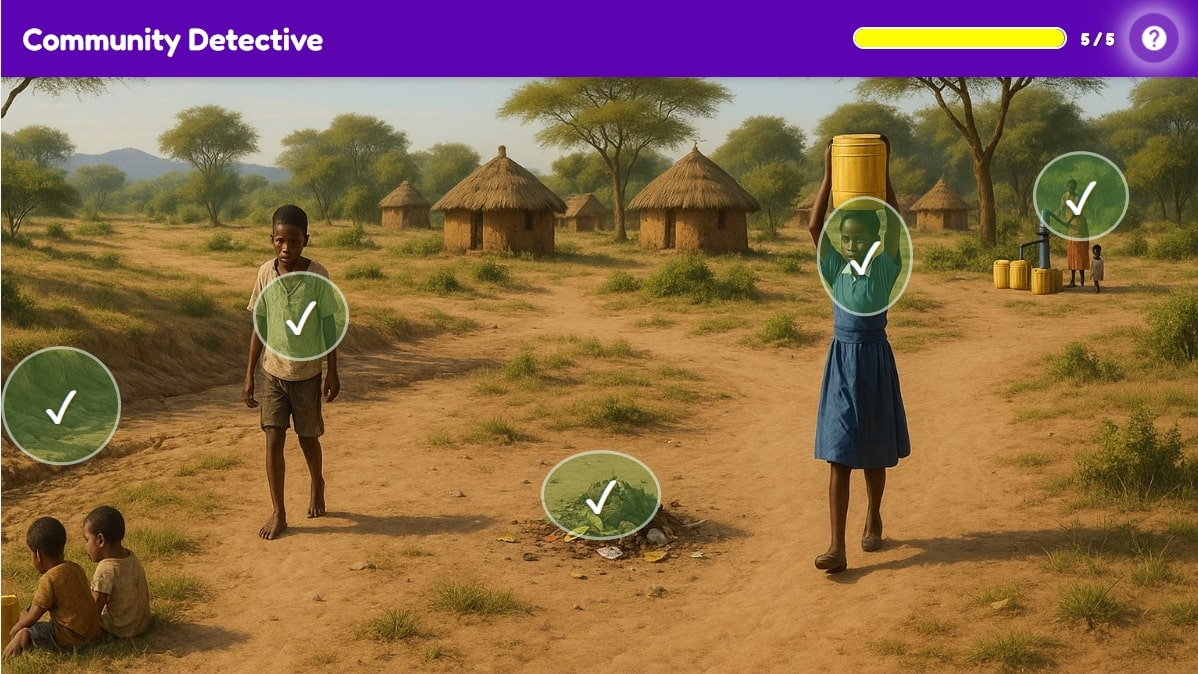
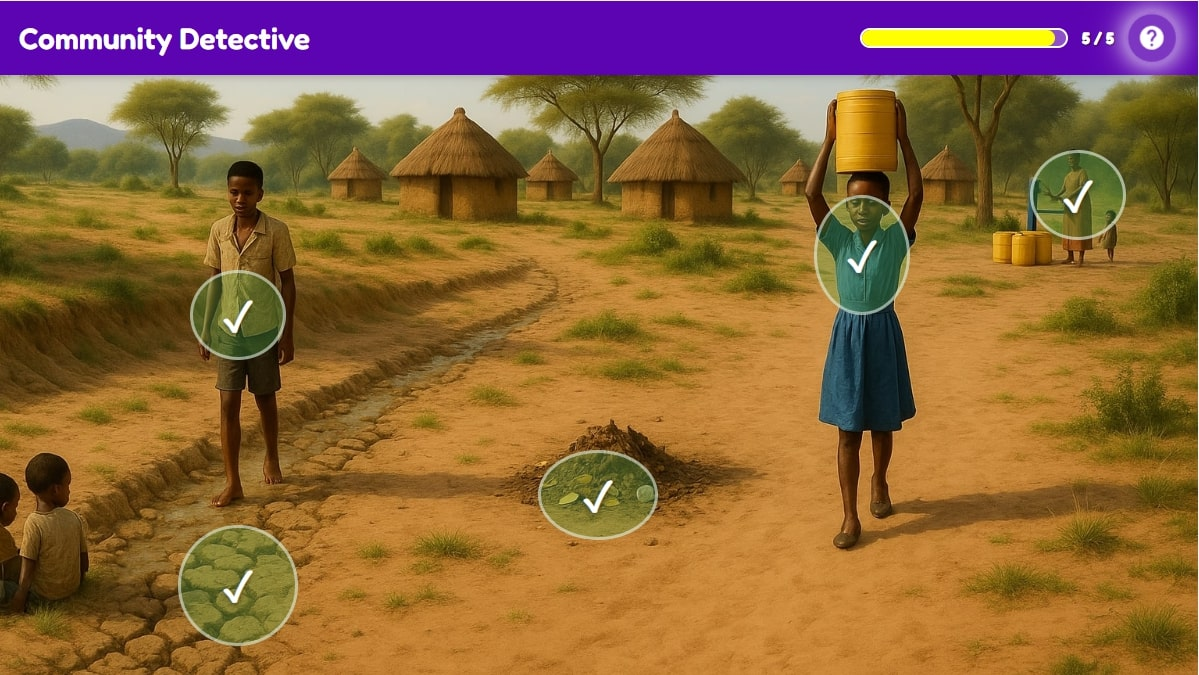
Completed Grade8-SS

diff --git a/Community Service Learning/Lesson1/ACTIVITY1/index.html b/Community Service Learning/Lesson1/ACTIVITY1/index.html
@@ -641,7 +641,7 @@
                 problem: 'Drought',
                 effect: 'No water for farming or drinking',
                 affected: 'Farmers and children',
-                coords: { top: '55%', left: '5%', width: '10%', height: '20%' }
+                coords: { top: '85%', left: '20%', width: '10%', height: '20%' }
             },
             {
                 id: 'barefoot-child',
@@ -649,7 +649,7 @@
                 problem: 'Lack of shoes',
                 effect: 'Risk of jiggers and infections',
                 affected: 'Poor families',
-                coords: { top: '40%', left: '25%', width: '8%', height: '15%' }
+                coords: { top: '40%', left: '20%', width: '8%', height: '15%' }
             },
             {
                 id: 'garbage-pile',
